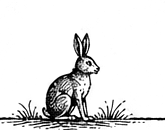
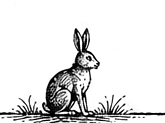
site: shelf sitter re-crop + sticky nav header
- Re-cropped sitter.png: tighter top (drop panel "A" letter from
  contact sheet that crept in), tight bottom to engraved horizon line
  (drop 2px of trailing stipple). New size 165×123.
- Bumped .shelf-head-mark height 56px → 72px for more visual
  presence — ears render with more pixels, body reads at intended scale.
- Made .site-nav sticky (position:sticky; top:0; z-index:50;
  background:var(--bg); backdrop-filter:blur(6px)) so nav links +
  dimmer stay in viewport on scroll.

diff --git a/css/style.css b/css/style.css
@@ -460,6 +460,11 @@ body {
   font-family: var(--mono);
   text-transform: uppercase;
   letter-spacing: 0.08em;
+  position: sticky;
+  top: 0;
+  z-index: 50;
+  background: var(--bg);
+  backdrop-filter: blur(6px);
 }
 
 .nav-name,
@@ -1010,7 +1015,7 @@ body {
   top: 0;
   left: 0.85rem;
   width: auto;
-  height: 56px;
+  height: 72px;
   transform: translateY(-100%);
   pointer-events: none;
 }
